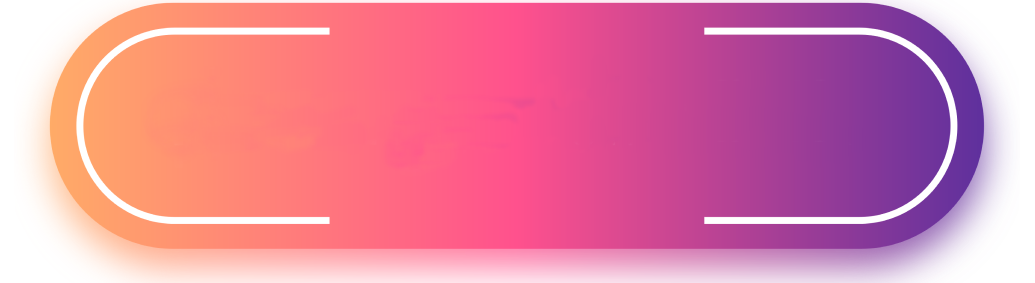
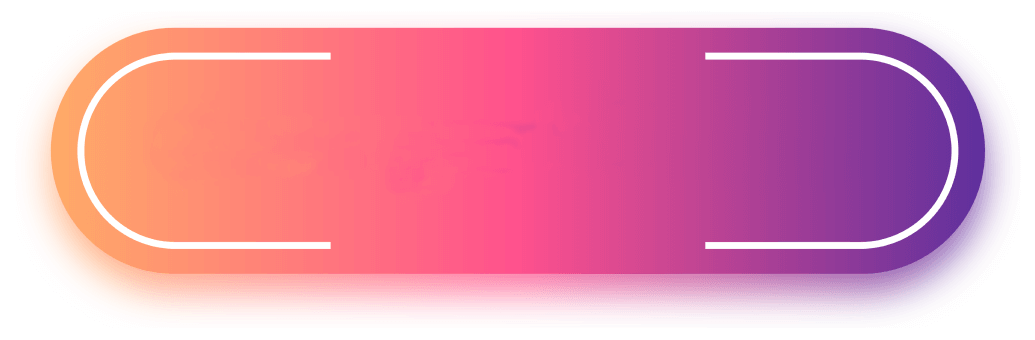
change button img

Changed region(s): [[0.0309, 0.0, 0.9585, 1.0], [0.8966, 0.424, 0.9275, 0.4523]]

diff --git a/src/app/uroczystosci-prywatne/wesela/page.tsx b/src/app/uroczystosci-prywatne/wesela/page.tsx
@@ -104,12 +104,12 @@ const WeddingPage = () => {
 				>
 					<Image
 						src='/button1.png'
-						width={500}
-						height={252}
+						width={1034}
+						height={340}
 						alt='button'
 						className='w-[32rem]'
 					/>
-					<p className='absolute translate-y-[-0.4rem] xl:translate-y-[-0.6rem] text-center w-full uppercase text-white text-lg custom450:text-2xl sm:text-lg xl:text-3xl font-semibold'>
+					<p className='absolute translate-y-[-0.4rem] xl:translate-y-[-0.6rem] text-center w-full uppercase text-white text-md custom450:text-2xl sm:text-lg xl:text-3xl font-semibold'>
 						Pakiet solo - 3H 750zł{' '}
 					</p>
 				</button>
@@ -121,8 +121,8 @@ const WeddingPage = () => {
 				>
 					<Image
 						src='/button2.png'
-						width={500}
-						height={252}
+						width={1035}
+						height={340}
 						alt='button'
 						className='w-[32rem]'
 					/>
@@ -269,7 +269,7 @@ const WeddingPage = () => {
 						alt='button'
 						className='w-[32rem]'
 					/>
-					<p className='absolute translate-y-[-0.5rem] xl:translate-y-[-0.6rem] text-center w-full uppercase text-white text-lg custom450:text-2xl sm:text-lg xl:text-3xl font-semibold mx-4 leading-5'>
+					<p className='absolute translate-y-[-0.5rem] xl:translate-y-[-0.6rem] text-center w-full uppercase text-white text-md custom450:text-2xl sm:text-lg xl:text-3xl font-semibold mx-4 leading-5'>
 						Pakiet VIP to + 100zł do
 						<span className='block'>wybranego pakietu </span>
 					</p>
